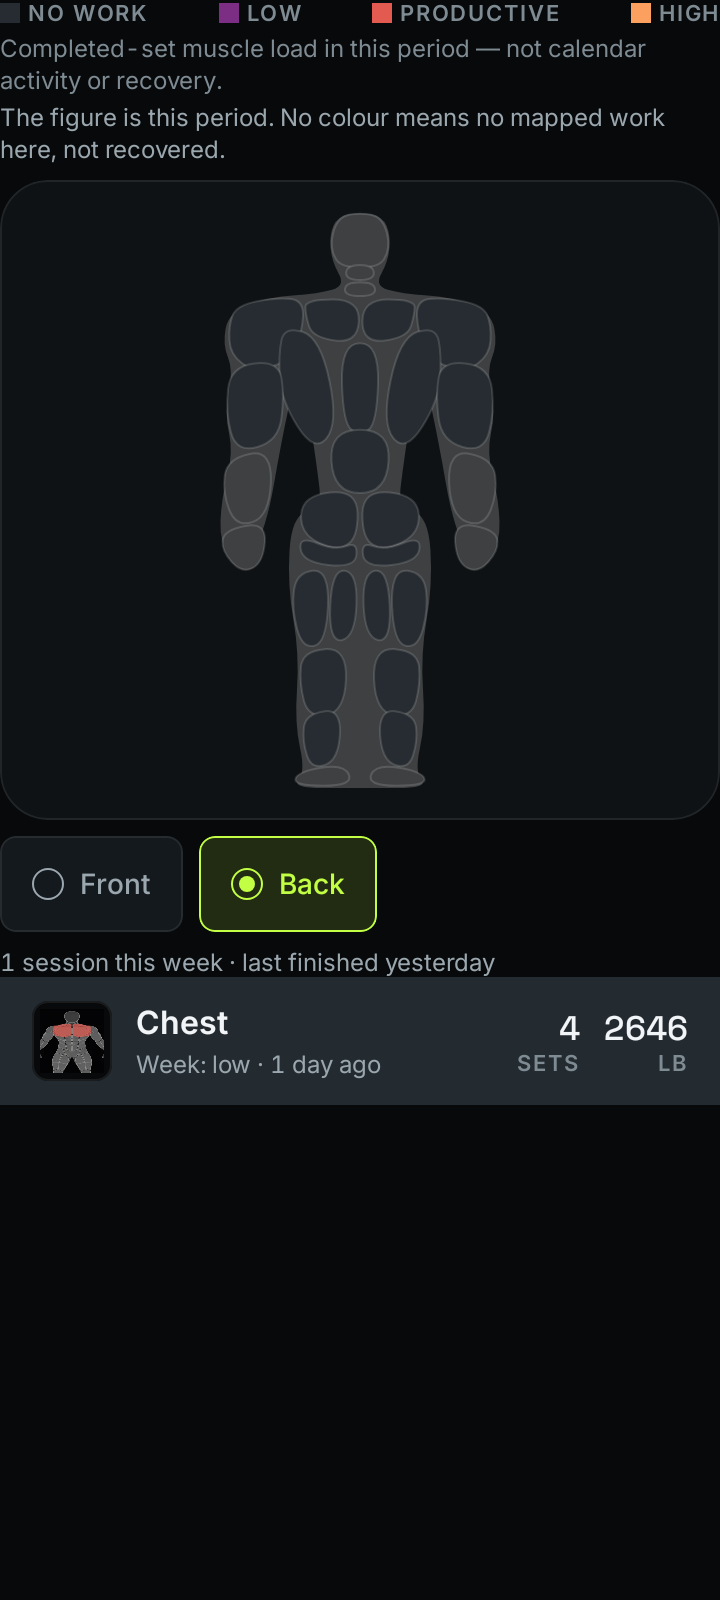
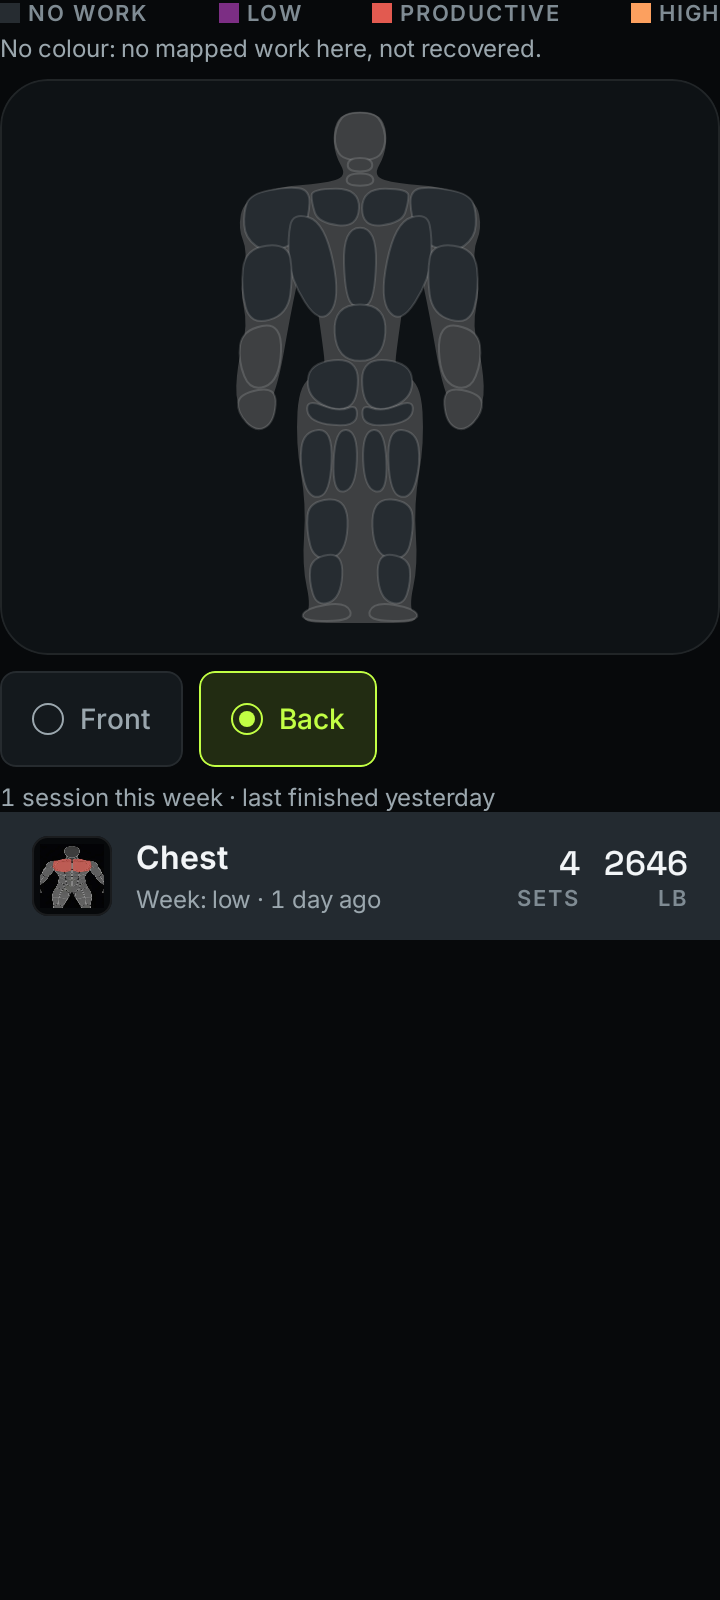
P11: keep the first muscle row above the tab bar
The fold check now counts the Front/Back switch and the facts line.
The figure is shorter, and the no-colour sentence is one line so it
stays whole at large text. A 360x640 render measures the row.

diff --git a/app/src/test/java/com/sinura/personaltrainer/ui/progress/BodyGeometryRenderTest.kt b/app/src/test/java/com/sinura/personaltrainer/ui/progress/BodyGeometryRenderTest.kt
@@ -6,9 +6,11 @@ import android.graphics.Canvas
 import androidx.activity.ComponentActivity
 import androidx.activity.compose.setContent
 import androidx.compose.foundation.background
+import androidx.compose.foundation.layout.Arrangement
 import androidx.compose.foundation.layout.Box
 import androidx.compose.foundation.layout.Column
 import androidx.compose.foundation.layout.height
+import androidx.compose.foundation.layout.padding
 import androidx.compose.foundation.layout.width
 import androidx.compose.runtime.CompositionLocalProvider
 import androidx.compose.ui.Modifier
@@ -25,6 +27,8 @@ import com.sinura.personaltrainer.domain.CanonicalMuscle
 import com.sinura.personaltrainer.domain.HeatWindow
 import com.sinura.personaltrainer.domain.MuscleLoadSummary
 import com.sinura.personaltrainer.ui.components.BodyView
+import com.sinura.personaltrainer.ui.components.GymSectionHeader
+import com.sinura.personaltrainer.ui.theme.Metrics
 import com.sinura.personaltrainer.ui.theme.PersonalTrainerTheme
 import com.sinura.personaltrainer.ui.theme.Pit
 import java.io.File
@@ -52,9 +56,67 @@ class BodyGeometryRenderTest {
         listOf(1f, 2f).forEach { scale ->
             render("body-front-360-font$scale", fontScale = scale, view = BodyView.FRONT)
             compose.onNodeWithText(BodyHeatCopy.WINDOW_CAPTION).assertIsDisplayed()
-            compose.onNodeWithText(BodyHeatCopy.LEGEND_CAPTION).assertIsDisplayed()
             compose.onNodeWithTag(BodyTags.VIEW_FRONT).assertIsDisplayed()
             compose.onNodeWithTag(BodyTags.muscle(CanonicalMuscle.CHEST)).assertIsDisplayed()
+        }
+    }
+
+    @Test
+    @Config(qualifiers = "w360dp-h640dp-xhdpi")
+    fun firstMuscleRowSitsAboveTheTabBarAt360x640() {
+        compose.activity.setContent {
+            PersonalTrainerTheme {
+                Column(Modifier.width(360.dp).background(Pit)) {
+                    BodyWindowPicker(window = HeatWindow.CURRENT_WEEK, onSelectWindow = {})
+                    Column(
+                        Modifier.padding(
+                            start = Metrics.gutter,
+                            end = Metrics.gutter,
+                            top = Metrics.space2,
+                        ),
+                        verticalArrangement = Arrangement.spacedBy(Metrics.cardGap),
+                    ) {
+                        BodyMapCard(
+                            snapshot = SNAPSHOT,
+                            view = BodyView.FRONT,
+                            onViewChange = {},
+                            selected = CanonicalMuscle.CHEST,
+                            onSelect = {},
+                            facts = "1 session this week · last finished yesterday",
+                        )
+                        GymSectionHeader("Muscles")
+                        MuscleHeatRow(
+                            load = CHEST,
+                            window = HeatWindow.CURRENT_WEEK,
+                            selected = true,
+                            onClick = {},
+                        )
+                    }
+                }
+            }
+        }
+        compose.waitForIdle()
+        val bounds = compose.onNodeWithTag(BodyTags.muscle(CanonicalMuscle.CHEST))
+            .fetchSemanticsNode().boundsInRoot
+        val density = compose.activity.resources.displayMetrics.density
+        val bottomDp = bounds.bottom / density
+        assertTrue("first muscle row bottom ${bottomDp}dp exceeds 576", bottomDp <= 576f)
+        val caption = compose.onNodeWithTag(BodyTags.WINDOW_CAPTION).fetchSemanticsNode().boundsInRoot
+        val captionHeightDp = caption.height / density
+        assertTrue("caption is taller than two lines at font 1.0: ${captionHeightDp}dp", captionHeightDp <= 36f)
+        val bitmap = compose.runOnIdle {
+            val decor = compose.activity.window.decorView
+            val full = Bitmap.createBitmap(
+                decor.width.coerceAtLeast(1),
+                decor.height.coerceAtLeast(1),
+                Bitmap.Config.ARGB_8888,
+            )
+            decor.draw(Canvas(full))
+            full
+        }
+        val out = File("build/screen-renders/p11").apply { mkdirs() }
+        FileOutputStream(File(out, "body-360x640-font1.png")).use {
+            bitmap.compress(Bitmap.CompressFormat.PNG, 100, it)
         }
     }
 

diff --git a/app/src/main/java/com/sinura/personaltrainer/ui/progress/BodyMap.kt b/app/src/main/java/com/sinura/personaltrainer/ui/progress/BodyMap.kt
@@ -22,6 +22,7 @@ import androidx.compose.runtime.Composable
 import androidx.compose.runtime.getValue
 import androidx.compose.runtime.mutableStateOf
 import androidx.compose.runtime.remember
+import androidx.compose.runtime.rememberUpdatedState
 import androidx.compose.runtime.setValue
 import androidx.compose.ui.Alignment
 import androidx.compose.ui.Modifier
@@ -117,6 +118,7 @@ fun BodyMapCard(
             ) {
                 // One box, in pixels, for the still, the heat wash, the selection stroke and the tap.
                 var measure by remember { mutableStateOf(FigureBox(width = 1f, height = 1f)) }
+                val selectMuscle = rememberUpdatedState(onSelect)
                 Box(
                     modifier = Modifier
                         .fillMaxSize()
@@ -130,7 +132,9 @@ fun BodyMapCard(
                         }
                         .pointerInput(view, measure) {
                             detectTapGestures { offset ->
-                                measure.muscleAt(view, offset.x, offset.y)?.let(onSelect)
+                                measure.muscleAt(view, offset.x, offset.y)?.let { muscle ->
+                                    selectMuscle.value(muscle)
+                                }
                             }
                         },
                 ) {
@@ -207,18 +211,17 @@ fun HeatLegend(modifier: Modifier = Modifier) {
             LegendSwatch("High", heatColor(MuscleLoadCalculator.FRACTION_HIGH))
         }
         Text(
-            BodyHeatCopy.LEGEND_CAPTION,
-            style = InstrumentType.caption,
-            color = TextTertiary,
-            maxLines = 2,
-        )
-        Text(
             BodyHeatCopy.WINDOW_CAPTION,
             modifier = Modifier
                 .fillMaxWidth()
-                .testTag(BodyTags.WINDOW_CAPTION),
+                .testTag(BodyTags.WINDOW_CAPTION)
+                .semantics {
+                    contentDescription =
+                        "${BodyHeatCopy.WINDOW_CAPTION} ${BodyHeatCopy.LEGEND_CAPTION}"
+                },
             style = InstrumentType.caption,
             color = TextSecondary,
+            maxLines = 2,
         )
     }
 }

diff --git a/app/src/main/java/com/sinura/personaltrainer/ui/progress/BodyViewport.kt b/app/src/main/java/com/sinura/personaltrainer/ui/progress/BodyViewport.kt
@@ -20,11 +20,11 @@ object BodyViewport {
     const val TAB_BAR_DP = 64
 
     /**
-     * 0.40 leaves room under the figure for the no-colour caption on a 360×640 phone
-     * without pushing the first muscle row under the tab bar.
+     * 0.36 keeps the first muscle row above the tab bar on a 360×640 phone once the
+     * legend, Front/Back chips and facts line are all counted. Font scale 1.0 only.
      */
-    const val FIGURE_FRACTION = 0.40f
-    const val FIGURE_MIN_DP = 256
+    const val FIGURE_FRACTION = 0.36f
+    const val FIGURE_MIN_DP = 230
     const val FIGURE_MAX_DP = 440
 
     /** [InstrumentType.kicker] line height at font 1.0. */
@@ -44,11 +44,20 @@ object BodyViewport {
             dp(Metrics.space2)
 
     fun legendHeightDp(): Int =
-        KICKER_LINE_DP + dp(Metrics.space1) + (CAPTION_LINE_DP * 2) +
-            dp(Metrics.space1) + (CAPTION_LINE_DP * 2)
+        KICKER_LINE_DP + dp(Metrics.space1) + CAPTION_LINE_DP
+
+    /** Front/Back chips and the one-line facts caption under the figure. */
+    fun underFigureDp(): Int =
+        dp(Metrics.space2) +
+            dp(Metrics.touchMin) +
+            dp(Metrics.space2) +
+            CAPTION_LINE_DP
 
     fun mapHeightDp(screenHeightDp: Int): Int =
-        legendHeightDp() + dp(Metrics.space2) + figureHeightDp(screenHeightDp)
+        legendHeightDp() +
+            dp(Metrics.space2) +
+            figureHeightDp(screenHeightDp) +
+            underFigureDp()
 
     fun firstMuscleRowTopDp(screenHeightDp: Int): Int =
         pickerHeightDp() +

diff --git a/app/src/test/java/com/sinura/personaltrainer/ui/progress/BodyViewportTest.kt b/app/src/test/java/com/sinura/personaltrainer/ui/progress/BodyViewportTest.kt
@@ -9,10 +9,10 @@ import org.junit.Test
 class BodyViewportTest {
     @Test
     fun firstMuscleRowIsInsideTheFirstViewportAt360x640() {
-        assertEquals(256, BodyViewport.figureHeightDp(640))
-        assertEquals(256, BodyViewport.figureHeightDp(500))
-        assertEquals(400, BodyViewport.figureHeightDp(1_000))
-        assertEquals(320, (800 * BodyViewport.FIGURE_FRACTION).toInt())
+        assertEquals(230, BodyViewport.figureHeightDp(640))
+        assertEquals(230, BodyViewport.figureHeightDp(500))
+        assertEquals(360, BodyViewport.figureHeightDp(1_000))
+        assertEquals(288, (800 * BodyViewport.FIGURE_FRACTION).toInt())
         assertTrue(
             "first muscle row must land in 360×640 above the tab bar",
             BodyViewport.firstMuscleRowFits(

diff --git a/app/src/main/java/com/sinura/personaltrainer/domain/BodyHeatCopy.kt b/app/src/main/java/com/sinura/personaltrainer/domain/BodyHeatCopy.kt
@@ -11,7 +11,7 @@ object BodyHeatCopy {
         "Completed-set muscle load in this period — not calendar activity or recovery."
 
     const val WINDOW_CAPTION =
-        "The figure is this period. No colour means no mapped work here, not recovered."
+        "No colour: no mapped work here, not recovered."
 
     /** Why adding the muscle rows together can exceed the workout's unique set count. */
     const val ATTRIBUTION_NOTE =
